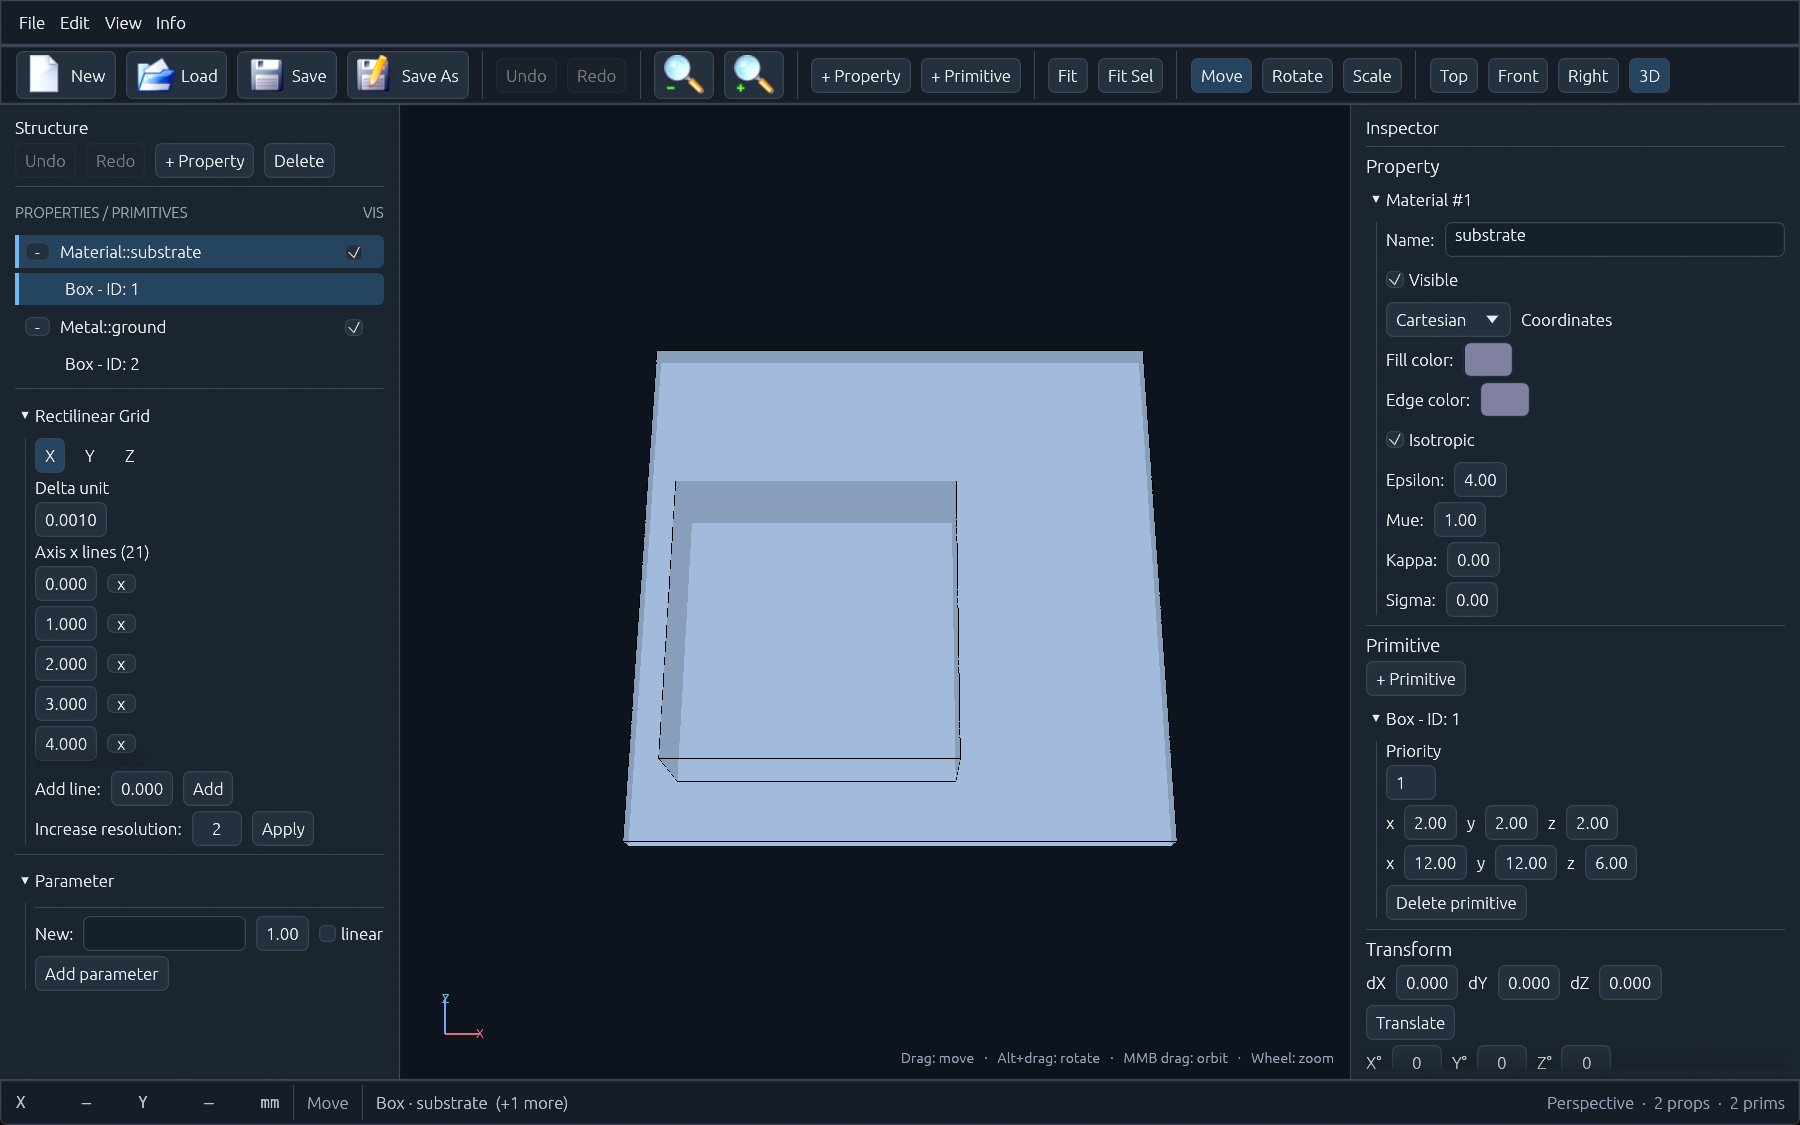
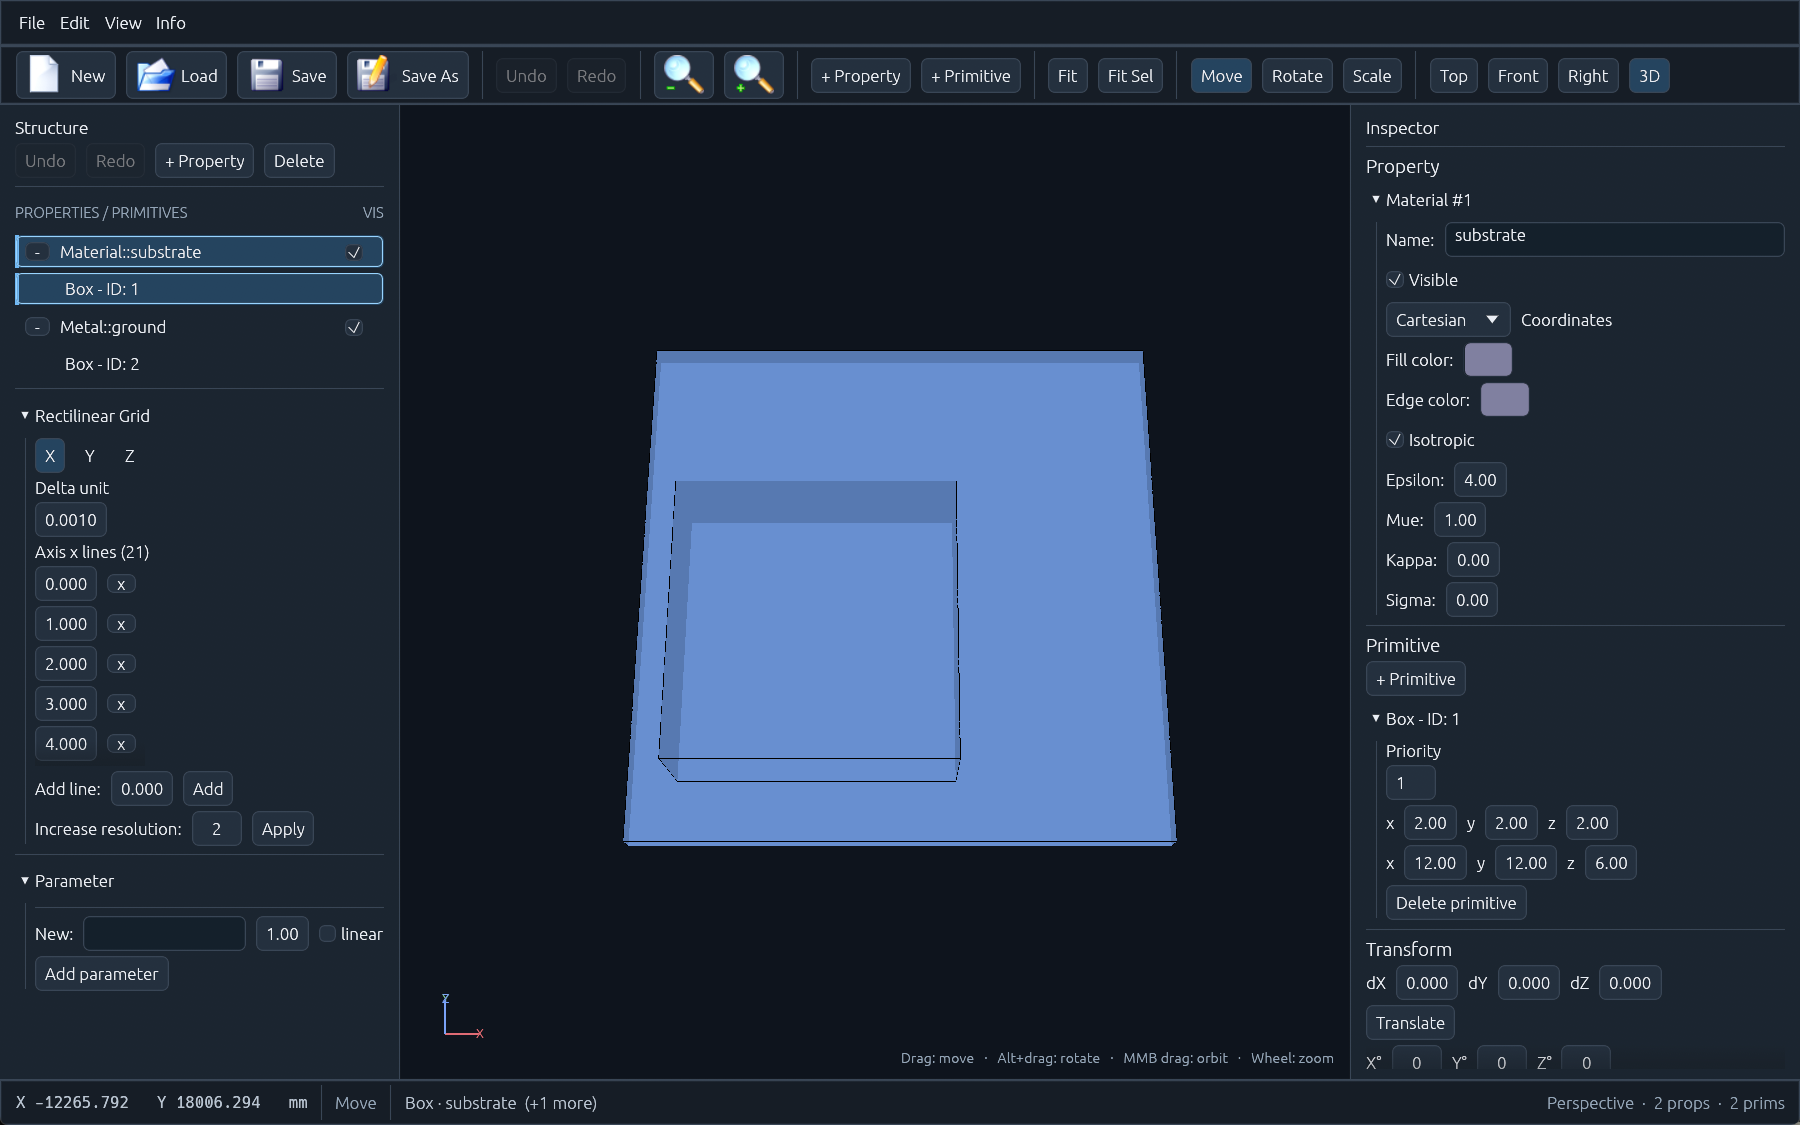
docs(gui): record keyboard navigation and the command palette (RM-176)
Matrix: 37 verified subsystems including 'Keyboard access and command palette'; parity/audit documents mark arrow-key navigation, focus rings and Ctrl+K as implemented. Refreshed selection capture and the new palette capture; register 176 Verified.

diff --git a/docs/migration/REMEDIATION_TASKS.md b/docs/migration/REMEDIATION_TASKS.md
@@ -58,7 +58,7 @@ RM-127.
 
 | Status | Count | Tasks |
 | --- | --- | --- |
-| `Verified` | 175 | RM-001, RM-002, RM-003, RM-004, RM-005, RM-006, RM-007, RM-008, RM-009, RM-010, RM-011, RM-012, RM-013, RM-014, RM-015, RM-016, RM-017, RM-018, RM-019, RM-020, RM-021, RM-022, RM-023, RM-024, RM-025, RM-026, RM-027, RM-028, RM-029, RM-030, RM-031, RM-032, RM-033, RM-034, RM-035, RM-036, RM-037, RM-038, RM-039, RM-040, RM-041, RM-042, RM-043, RM-044, RM-045, RM-046, RM-047, RM-048, RM-049, RM-050, RM-051, RM-052, RM-053, RM-054, RM-055, RM-056, RM-057, RM-058, RM-059, RM-060, RM-061, RM-062, RM-063, RM-064, RM-065, RM-066, RM-067, RM-068, RM-069, RM-070, RM-071, RM-072, RM-073, RM-074, RM-075, RM-076, RM-077, RM-078, RM-079, RM-080, RM-081, RM-082, RM-083, RM-084, RM-085, RM-086, RM-087, RM-088, RM-089, RM-090, RM-091, RM-092, RM-093, RM-094, RM-095, RM-096, RM-097, RM-098, RM-099, RM-100, RM-101, RM-102, RM-103, RM-104, RM-105, RM-106, RM-107, RM-108, RM-109, RM-110, RM-111, RM-112, RM-113, RM-114, RM-115, RM-116, RM-117, RM-118, RM-119, RM-120, RM-121, RM-122, RM-123, RM-124, RM-125, RM-126, RM-127, RM-128, RM-129, RM-130, RM-131, RM-132, RM-133, RM-134, RM-135, RM-136, RM-137, RM-138, RM-139, RM-140, RM-141, RM-142, RM-143, RM-144, RM-145, RM-146, RM-147, RM-148, RM-149, RM-150, RM-151, RM-152, RM-153, RM-154, RM-155, RM-156, RM-157, RM-158, RM-159, RM-160, RM-161, RM-162, RM-163, RM-164, RM-165, RM-166, RM-167, RM-168, RM-169, RM-170, RM-171, RM-172, RM-173, RM-174, RM-175 |
+| `Verified` | 176 | RM-001, RM-002, RM-003, RM-004, RM-005, RM-006, RM-007, RM-008, RM-009, RM-010, RM-011, RM-012, RM-013, RM-014, RM-015, RM-016, RM-017, RM-018, RM-019, RM-020, RM-021, RM-022, RM-023, RM-024, RM-025, RM-026, RM-027, RM-028, RM-029, RM-030, RM-031, RM-032, RM-033, RM-034, RM-035, RM-036, RM-037, RM-038, RM-039, RM-040, RM-041, RM-042, RM-043, RM-044, RM-045, RM-046, RM-047, RM-048, RM-049, RM-050, RM-051, RM-052, RM-053, RM-054, RM-055, RM-056, RM-057, RM-058, RM-059, RM-060, RM-061, RM-062, RM-063, RM-064, RM-065, RM-066, RM-067, RM-068, RM-069, RM-070, RM-071, RM-072, RM-073, RM-074, RM-075, RM-076, RM-077, RM-078, RM-079, RM-080, RM-081, RM-082, RM-083, RM-084, RM-085, RM-086, RM-087, RM-088, RM-089, RM-090, RM-091, RM-092, RM-093, RM-094, RM-095, RM-096, RM-097, RM-098, RM-099, RM-100, RM-101, RM-102, RM-103, RM-104, RM-105, RM-106, RM-107, RM-108, RM-109, RM-110, RM-111, RM-112, RM-113, RM-114, RM-115, RM-116, RM-117, RM-118, RM-119, RM-120, RM-121, RM-122, RM-123, RM-124, RM-125, RM-126, RM-127, RM-128, RM-129, RM-130, RM-131, RM-132, RM-133, RM-134, RM-135, RM-136, RM-137, RM-138, RM-139, RM-140, RM-141, RM-142, RM-143, RM-144, RM-145, RM-146, RM-147, RM-148, RM-149, RM-150, RM-151, RM-152, RM-153, RM-154, RM-155, RM-156, RM-157, RM-158, RM-159, RM-160, RM-161, RM-162, RM-163, RM-164, RM-165, RM-166, RM-167, RM-168, RM-169, RM-170, RM-171, RM-172, RM-173, RM-174, RM-175, RM-176 |
 | `Implemented` | 0 | - |
 | `Blocked` | 0 | - |
 | `Analyzed` | 0 | - |
@@ -241,6 +241,7 @@ before the final audit can sign off.
 | RM-173 | P2 | Persist the dock widths | RM-166 | S | Panel widths are read from each panel response and stored as `tree_width`/`inspector_width` in `settings.json`, then applied by `set_dock_widths` before the first frame. `dock_widths_have_defaults_and_are_clamped`, the settings round-trip, and a 1440x900 run at 340/420 px (`audits/gui-dock-persisted-1440.png`) | Verified |
 | RM-174 | P2 | Dielectric wave-speed mesh refinement | RM-170 | M | `openEMS/rust/examples/dielectric_convergence.rs` runs a plane-wave line (`eps_r=4`, 120x10x10 mm, probes 30/90 mm) at h/h2/h4: errors 2.143e-3, 1.149e-3, 9.253e-4, monotone; observed order 0.90/0.31. The correlation-delay estimator (~0.1-0.2 %) limits the fine end, so only monotone accuracy is claimed; record in `docs/migration/reference-data/convergence/dielectric.json` | Verified |
 | RM-175 | P1 | MATLAB interface smoke | RM-095 | S | MATLAB R2025b on Windows ran `InitCSX`/`DefineRectGrid`/`AddMetal`/`AddBox`/`InitFDTD` → `WriteOpenEMS` → `RunOpenEMS` with `--no-simulation` and a 50-step simulation through the Rust CLI; both returned without error (`matlab -batch "run(...matlab_smoke.m)"`). Full MATLAB suite not executed | Verified |
+| RM-176 | P2 | Keyboard tree navigation and a command palette | RM-166 | M | Up/Down move the tree selection, Left/Right collapse/expand, the selected row draws a focus ring, and Ctrl+K opens a filtered registry of wired commands. `keyboard_navigation_is_clamped_to_the_visible_rows`, palette filter/id tests, `audits/gui-selection-1440.png` and `audits/gui-palette-1440.png` | Verified |
 | RM-167 | P0 | Reject `CellConstantMaterial` instead of silently averaging quarter cells | RM-050 | S | `setup_fdtd` rejects the option (native switches to `AverageMatCellCenter`, the port has only quarter-cell averaging); `cell_constant_material_is_rejected_at_setup` and E-008. Programmatic `SetCellConstantMaterial` still follows the native API, but the run fails with an explicit message | Verified |
 | RM-168 | P1 | Python façade parity: DC-free Gauss, engine diagnostics, `Write2XML` completeness | RM-095 | S | `SetGaussExcite(f0, fc, dc_free=True)` forwards to `set_gauss_excite_with_dc`; `_SetLibraryArguments` raises `RuntimeError` with the CLI-style option name, rejects GPU engines (no GPU backend) and unknown engines instead of running the CPU engine silently; `Write2XML` returns False without writing when the CSX or the excitation is missing. Covered by the carried `test_openEMS`/`test_XML_RoundTrip` suites | Verified |
 | RM-166 | P2 | Viewport navigation scope, fit commands and overlays | RM-165 | M | Wheel zoom and middle-drag orbit now require the pointer to be inside the viewport (`navigation_outside_the_viewport_is_ignored`), so scrolling the tree no longer moves the camera. `Fit All` frames the stored geometry bounds and `Fit Selection` merges the selected primitives' model bounding boxes (`fit_all`/`fit_selection`). The overlay shows the hovered primitive, the axis triad uses theme axis colours, and a single click selects the primitive under the cursor (`audits/gui-selection-1440.png` shows tree -> inspector -> status synchronisation after a real click). Camera units/behaviour are unchanged (`the_center_ray_passes_through_the_camera_center`, `a_projected_point_lies_on_its_ray`) | Verified |
@@ -517,6 +518,7 @@ in the task's acceptance column.
 | 2026-10-29 | RM-124 | Verified | Nightly job script with a dated artifact, PASS on crate tests and the 51-case harness; installed as the daily 03:00 Windows task (E-005) |
 | 2026-10-29 | RM-106 | Verified | Real-display Windows session: maximized MSVC build, native tree labels, 3D viewport; 18 automated checks unchanged; native Qt parity and the platform matrix are E-006 |
 | 2026-10-30 | RM-061, RM-167 | Verified | Two parsed-but-unimplemented physics options are now rejected at setup instead of silently changing the result: `cylindrical_multigrid_is_rejected_at_setup`, `set_multi_grid_is_recorded_but_setup_rejects_it`, `cell_constant_material_is_rejected_at_setup`; E-007/E-008 record the decisions. `openems-core` 275 lib tests pass |
+| 2026-10-30 | RM-176 | Verified | Keyboard tree navigation (Up/Down select, Left/Right expand/collapse, clamped by `keyboard_navigation_is_clamped_to_the_visible_rows`) with a visible focus ring (`audits/gui-selection-1440.png`), and a Ctrl+K command palette whose registry is the wired menus (`command_entries`, `filter_commands`, unique-id/filter tests; `audits/gui-palette-1440.png`). 27 qcsxcad-egui + 17 appcsxcad tests pass |
 | 2026-10-30 | RM-175 | Verified | MATLAB R2025b/PCWIN64 smoke through the M-file interface and the Rust CLI: `InitCSX`/`WriteOpenEMS` produced the XML, `RunOpenEMS` returned for `--no-simulation` and a 50-step PEC-cavity run (`matlab -batch "run(...matlab_smoke.m)"`). Proves the documented MATLAB workflow; full MATLAB suite remains future work |
 | 2026-10-30 | RM-174 | Verified | Dielectric wave-speed refinement in a plane-wave line (`eps_r=4`, 120x10x10 mm, probes 30/90 mm): errors 2.143e-3 / 1.149e-3 / 9.253e-4, monotone, observed order 0.90/0.31. The correlation estimator is the limiting factor, so only monotone accuracy is claimed. `openEMS/rust/examples/dielectric_convergence.rs`; `docs/migration/reference-data/convergence/dielectric.json` |
 | 2026-10-30 | RM-173 | Verified | Dock widths are captured from the panel response and persisted as `tree_width`/`inspector_width` in `settings.json`; `set_dock_widths` applies them at startup. A 1440x900 run with 340/420 requests measured 340/420 logical (`audits/gui-dock-persisted-1440.png`); `dock_widths_have_defaults_and_are_clamped` and the settings round-trip cover the rest |

diff --git a/docs/migration/MIGRATION_STATUS.md b/docs/migration/MIGRATION_STATUS.md
@@ -1,6 +1,6 @@
 # Rust Migration Status
 
-**Status (2026-10-30): Complete.** The register has **175 `Verified` rows and
+**Status (2026-10-30): Complete.** The register has **176 `Verified` rows and
 no open row** (`REMEDIATION_TASKS.md`); the GUI design-parity work (`RM-152`)
 and the native icons/metrics (`RM-153`) are closed, and the `Precision
 Workbench` redesign adds RM-164..RM-166 (theme tokens, shell, viewport
@@ -50,8 +50,8 @@ the denormal flush, the PEC-edge `.vtp` dump and the FDTD-child scoping fix.
 The register grows to 163 `Verified` rows (RM-154..RM-163); the new APIs are
 wired into the GUI renderer and the Python bindings, and the full workspace
 suite is 865 passed / 0 failed. The GUI redesign adds RM-164..RM-166 and the
-audit adds RM-167/RM-168, the parser hardening adds RM-169, the cavity convergence study adds RM-170, the viewport colour fix adds RM-171, the `TimeStepFactor` fix adds RM-172, dock persistence adds RM-173, the dielectric study adds RM-174, and the MATLAB smoke adds RM-175, for
-175 `Verified` rows in total.
+audit adds RM-167/RM-168, the parser hardening adds RM-169, the cavity convergence study adds RM-170, the viewport colour fix adds RM-171, the `TimeStepFactor` fix adds RM-172, dock persistence adds RM-173, the dielectric study adds RM-174, and the MATLAB smoke adds RM-175, and the keyboard/palette work adds RM-176, for
+176 `Verified` rows in total.
 Everything else is classified as already present, not applicable (GPU engine,
 packaging, CI) or deferred with a reason in
 `audits/upstream-sync-2026-10-30.md`.
@@ -114,7 +114,7 @@ pass (405 tests, 2 GPU tests reported `SKIPPED`).
 
 Records corrected: E-005 (the nightly task was deleted), the stale
 `FINAL_AUDIT.md` headline, and `RM-061`'s evidence. The register is now
-**175 `Verified`, 0 open**. The remaining gaps are validation strength
+**176 `Verified`, 0 open**. The remaining gaps are validation strength
 (convergence, CST) and the platform matrix, not porting work; see
 `audit/releases/FINAL_READINESS.md` for the conditional release verdict.
 

diff --git a/docs/migration/audits/gui-modernization-audit.md b/docs/migration/audits/gui-modernization-audit.md
@@ -112,10 +112,12 @@ shown disabled with a stated reason, never silently inert.
    projection mode or whether a document is modified.
 6. **No panel visibility control.** Both docks are always present; there is no
    keyboard/menu fallback for hiding them (DESIGN.md §2 requires one).
-7. **Keyboard access is partial.** Delete and the file shortcuts exist; the tree
-   is not arrow-navigable, and focus is not visibly distinct from selection.
-8. **No command search.** There is no `Ctrl+K` registry, so rare exports are only
-   discoverable through menus.
+7. **Keyboard access was partial.** Fixed in RM-176: Up/Down move the tree
+   selection, Left/Right collapse/expand a property, and the selected row shows
+   a focus ring (`gui-selection-1440.png`).
+8. **No command search.** Fixed in RM-176: `Ctrl+K` (and Edit → Command
+   palette) opens a filtered registry wired to the menu handlers
+   (`gui-palette-1440.png`).
 9. **No docking.** Panels are fixed left/right/bottom. This is accepted for
    Phase 2 only if panel sizes persist and can be toggled; true drag-docking is
    deferred until an ADR approves a docking crate compatible with egui 0.37.
@@ -199,6 +201,6 @@ before upload (`stored_srgb_colours_are_linearised_for_the_surface`); the
 dark/light captures show the stored colour. The clear colour was already
 linearised in the same phase.
 
-Remaining phases: persisted dock sizes (egui panel state is session-only),
-arrow-key tree navigation and visible focus rings, and a `Ctrl+K` command
-registry.
+Dock sizes, arrow-key navigation with focus rings, and the `Ctrl+K` command
+registry are implemented (RM-173/RM-176). The remaining GUI limitation is true
+drag-docking, deferred until an ADR approves an egui-0.37-compatible crate.

diff --git a/docs/migration/audits/gui-parity.md b/docs/migration/audits/gui-parity.md
@@ -180,10 +180,10 @@ history. The current shell differs on every point it lists:
 | Area | Current state |
 | --- | --- |
 | Theme | Three complete palettes (`Dark` default, `Light`, `High contrast`) from DESIGN.md §3.1, one spacing/typography scale, viewport clear colour follows the theme. |
-| Menu | `File`, `Edit`, `View`, `Info`; Edit exposes enabled-only Undo/Redo; View carries Fit All/Selection, standard views, parallel projection, theme, and panel visibility. |
+| Menu | `File`, `Edit`, `View`, `Info`; Edit exposes Command palette (Ctrl+K) and enabled-only Undo/Redo; View carries Fit All/Selection, standard views, parallel projection, theme, and panel visibility. |
 | Command strip | Grouped file/history/structure/create/fit/tool/view commands; creation moved into `+ Property`/`+ Primitive` menus; whole groups wrap at 1280 px and fit one row at 1440/1920 px. |
 | Docks | `Structure` (tree + grid + parameters, tree bounded so the lower sections stay reachable) and `Inspector` (property/primitive/transform), both clamped and padded; Ctrl+B / Ctrl+I toggle them. |
-| Tree | Title, action row, `PROPERTIES / PRIMITIVES` + `VIS` header, full-width selected/hover rows with an accent bar, context menu and Delete. |
+| Tree | Title, action row, `PROPERTIES / PRIMITIVES` + `VIS` header, full-width selected/hover rows with an accent bar, context menu and Delete; Up/Down/Left/Right keyboard navigation with a visible focus ring. |
 | Viewport | Dark/light viewport matching the theme, theme-coloured axis triad, hover label, navigation hint, Fit All/Selection, confined wheel/orbit. |
 | Status bar | Coordinates in the drawing unit (e.g. `mm`), active tool, selection summary, projection, property/primitive counts, unsaved marker. |
 

diff --git a/audit/releases/FINAL_READINESS.md b/audit/releases/FINAL_READINESS.md
@@ -19,7 +19,8 @@ CST-validated or production-ready replacement.
   curve-excitation gates.
 - Analytic vacuum and dielectric propagation speed (2 % discrete bound).
 - 405 native Python tests (2 GPU tests skipped), Octave 10/10, install layout.
-- GUI editor workflow with real-click tree → inspector → status evidence.
+- GUI editor workflow with real-click tree → inspector → status evidence;
+  arrow-key tree navigation with focus rings and a Ctrl+K command palette.
 - P0 guards: `CellConstantMaterial` and `MultiGrid` fail loudly (E-007/E-008)
   instead of changing the physics silently.
 

diff --git a/audit/COMPLETION_DASHBOARD.md b/audit/COMPLETION_DASHBOARD.md
@@ -9,7 +9,7 @@ evidence, but the two P0 rows below mean the register's "172 Verified" tally ove
 
 | Status | Count | Meaning here |
 |---|---:|---|
-| `VERIFIED_COMPLETE` | 36 | implementation + executed comparison/analytic result recorded |
+| `VERIFIED_COMPLETE` | 37 | implementation + executed comparison/analytic result recorded |
 | `IMPLEMENTED_UNVERIFIED` | 1 | Windows installer workflow; no run at this HEAD |
 | `PARTIAL` | 2 | performance threshold, convergence study |
 | `INTENTIONALLY_DIFFERENT` | 1 | fparser extended-precision variants (E-001/ADR 0006) |

diff --git a/audit/00_risks.md b/audit/00_risks.md
@@ -47,5 +47,5 @@ reach the operator/engine or the writer.
 2. PY-001 rebuild and native Python suites (in progress).
 3. Records E-005/FINAL_AUDIT (E-005 corrected; FINAL_AUDIT to re-issue).
 4. Validation: analytic SAR, convergence study, performance gate.
-5. GUI arrow-key navigation and visible focus rings.
+5. GUI arrow-key navigation and visible focus rings (done, RM-176).
 6. Platform matrix when Actions or hosts are available.
